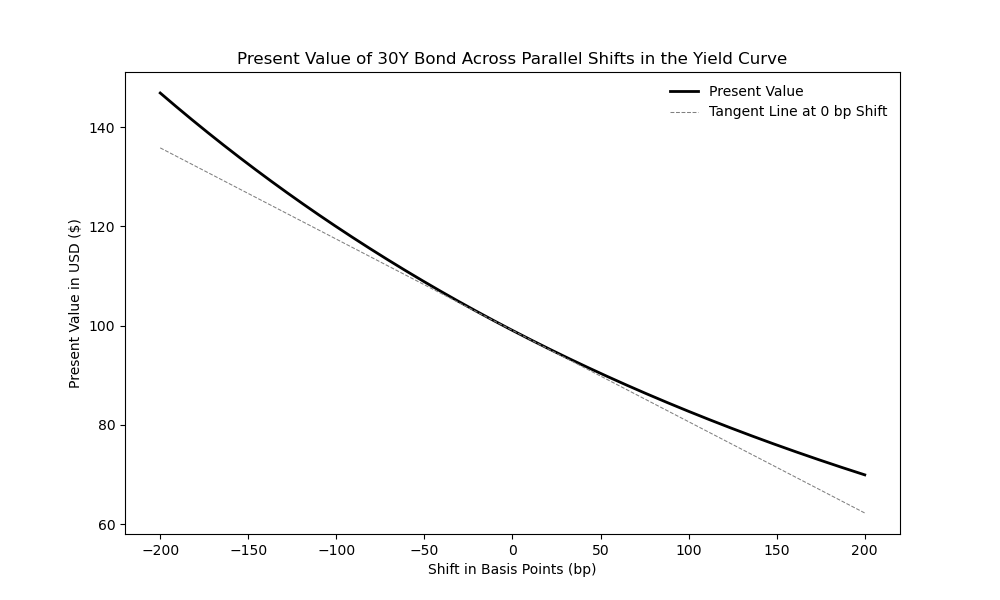
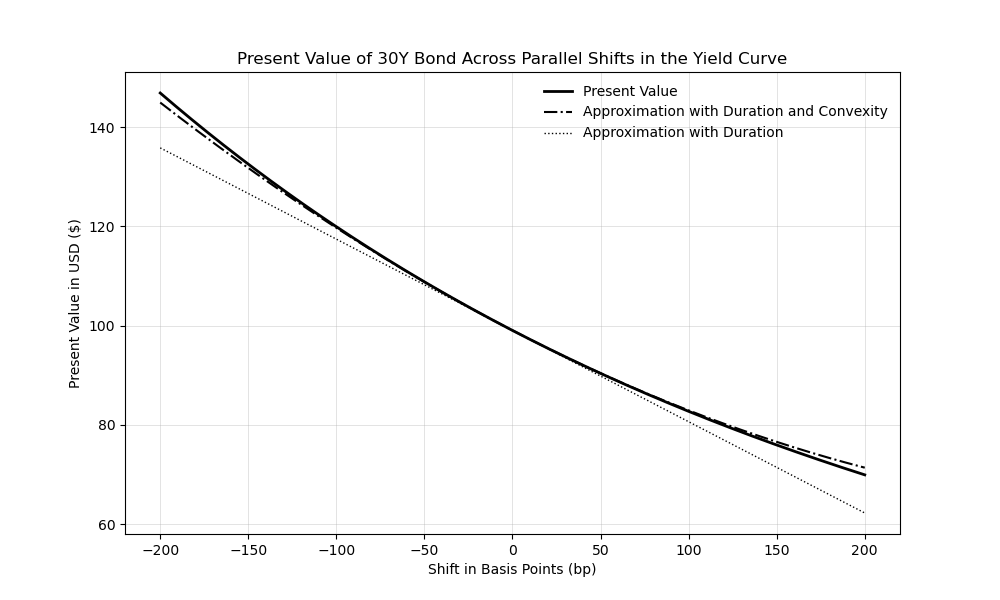
Included convexity calculation for the yield curve object, included both duration and duration+convexity approximations in the yield curve plot_price_curve method. Used bisect.right_insort() for KetRateCollection + KeyRate rather than searching and then performing manual insertion.

diff --git a/fixedIncome/curves/yield_curve.py b/fixedIncome/curves/yield_curve.py
@@ -214,23 +214,49 @@ class YieldCurve(object):
         """
         return lambda date_obj: bump_amount
 
-
-    def calculate_pv_deriv(self, bond: Bond) -> float:
+    #----------------------------------------------------------------------
+    # Duration and convexity with respect to parallel shifts of yield curve
+    def calculate_pv_deriv(self, bond: Bond, offset: float = 0.0) -> float:
         """
         Calculates the DV01 of the provided bond under parallel shifts of the yield curve.
+        offset allows the user to specify a shift around which the derivative will be computed.
+
 
         Formula is
-            deriv = (PV(+half basis point) - PV(-half basis Point))/(0.005 - -0.005)
+            deriv = (PV(offset+half basis point) - PV(offset-half basis Point))/(0.005 - -0.005)
         """
-        half_bp_adjustment = self.parallel_bump(bump_amount=0.005)  # unit is in %, so 0.005 = half a basis point
+        half_bp_adjustment = self.parallel_bump(bump_amount=offset + 0.005)  # unit is in %, so 0.005 = half a basis point
         pv_plus_half_bp = self.calculate_present_value(bond, adjustment_fxcn=half_bp_adjustment)
 
-        negative_half_bp_adjustment = self.parallel_bump(bump_amount=-0.005)
+        negative_half_bp_adjustment = self.parallel_bump(bump_amount=offset - 0.005)
         pv_minus_half_bp = self.calculate_present_value(bond, adjustment_fxcn=negative_half_bp_adjustment)
 
         deriv = (pv_plus_half_bp - pv_minus_half_bp)/0.01  # 0.01 = 0.005 - -0.005
 
         return deriv
+
+    def duration(self, bond: Bond) -> float:
+        """
+        Calculates the duration of the bond, as
+        -1/P * dP/dy where P is the bond price.
+        """
+        derivative = self.calculate_pv_deriv(bond)
+        present_value = self.calculate_present_value(bond)  # should I calculate present value or can I just use price?
+        return -derivative/present_value
+
+    def convexity(self, bond: Bond) -> float:
+        """
+        calculate the convexity of a bond, defined as
+        C: = 1/P * d^2 P/d^2y
+        """
+
+        derivative_positive_bump = self.calculate_pv_deriv(bond, offset=0.005)
+        derivative_negative_bump = self.calculate_pv_deriv(bond, offset=-0.005)
+        second_deriv = (derivative_positive_bump - derivative_negative_bump) / 0.01
+
+        return second_deriv / self.calculate_present_value(bond)
+
+
 
 
 
@@ -248,7 +274,6 @@ class YieldCurve(object):
         )
 
         orig_y_vals = [self.interpolate(date_obj) for date_obj in interpolation_timestamps.date]
-        bumped_y_vals = [self.interpolate(date_obj, adjustment) for date_obj in interpolation_timestamps.date]
 
         plot_series = pd.Series(orig_y_vals, index=interpolation_timestamps.date)
         title_string = f"{self.interpolation_space} Curve Interpolated " \
@@ -258,6 +283,7 @@ class YieldCurve(object):
         plot_series.plot(title=title_string, ylabel=self.interpolation_space, color='black', linewidth=2)
 
         if adjustment is not None:
+            bumped_y_vals = [self.interpolate(date_obj, adjustment) for date_obj in interpolation_timestamps.date]
             plot_bumped_series = pd.Series(bumped_y_vals, index=interpolation_timestamps.date)
             plot_bumped_series.plot(linestyle='--', color='black')
 
@@ -272,6 +298,7 @@ class YieldCurve(object):
 
         deriv = self.calculate_pv_deriv(bond)
         bond_pv = self.calculate_present_value(bond)
+        bond_convexty = self.convexity(bond)
 
         parallel_shifts = np.arange(start=lower_shift, stop=upper_shift+shift_increment, step=shift_increment)
 
@@ -280,13 +307,18 @@ class YieldCurve(object):
 
         tangent_line = [deriv * shift + bond_pv for shift in parallel_shifts]
 
+        quad_approx = [bond_pv + deriv * shift + shift**2 * bond_pv*bond_convexty/2 for shift in parallel_shifts]
+
         plt.figure(figsize=(10, 6))
         plt.plot(parallel_shifts*100, pv_vals, color="black", linewidth=2)
-        plt.plot(parallel_shifts*100, tangent_line, color="grey", linestyle='--', linewidth=0.75)
+        plt.plot(parallel_shifts*100, quad_approx, color="black", linestyle="-.", linewidth=1.5)
+        plt.plot(parallel_shifts*100, tangent_line, color="black", linestyle=':', linewidth=1)
         plt.xlabel("Shift in Basis Points (bp)")
         plt.ylabel(f"Present Value in USD ($)")
         plt.title(f'Present Value of {bond.tenor} Bond Across Parallel Shifts in the Yield Curve')
-        plt.legend(['Present Value', 'Tangent Line at 0 bp Shift'], frameon=False)
+        plt.legend(['Present Value', 'Approximation with Duration and Convexity', 'Approximation with Duration'],
+                   frameon=False)
+        plt.grid(True, alpha=0.5, linewidth=0.5)
         plt.show()
 
 

diff --git a/main.py b/main.py
@@ -4,14 +4,14 @@ from fixedIncome.curves.key_rate import *
 from fixedIncome.utils.day_count_calculator import *
 
 
-def main() -> None:
+def main(bond_collection, curve_factory) -> None:
 
     #---------------------------------------------------------------------
     # Yield Curve
 
-    yield_curve = curve_factory_obj.construct_yield_curve(bond_collection,
-                                                          interpolation_method='cubic',
-                                                          reference_date=purchase_date)
+    yield_curve = curve_factory.construct_yield_curve(bond_collection,
+                                                      interpolation_method='cubic',
+                                                      reference_date=purchase_date)
     # Trial Key Rate to test bumping Yield Curve
     key_rate_obj = KeyRate('act/act',
                            key_rate_date=date(2030, 2, 28),
@@ -26,10 +26,14 @@ def main() -> None:
 
     # DV01 calculations
 
-    pv_derivs = [yield_curve.calculate_pv_deriv(bond) for bond in bond_collection]
+    durations = [yield_curve.duration(bond) for bond in bond_collection]
 
-    print("Derivative values are...")
-    print(pv_derivs)
+    print("Duration values are...")
+    print(durations)
+
+    convexities = [yield_curve.convexity(bond) for bond in bond_collection]
+    print("Convexities are...")
+    print(convexities)
 
 
 
@@ -113,8 +117,8 @@ if __name__ == '__main__':
                      purchase_date=purchase_date,
                      maturity_date=date(2053, 2, 15))
 
-    bond_collection = [
+    bond_list = [
         four_wk, one_yr, two_yr, three_yr, five_yr, seven_yr, ten_yr, twenty_yr, thirty_yr
     ]
 
-    main()
+    main(bond_list, curve_factory_obj)

diff --git a/fixedIncome/curves/key_rate.py b/fixedIncome/curves/key_rate.py
@@ -288,9 +288,7 @@ class KeyRateCollection:
         Returns a reference to self.
         """
 
-        kr_insertion_index = bisect.bisect_right(self.key_rates, other_key_rate)
-
-        self.key_rates.insert(kr_insertion_index, other_key_rate)
+        bisect.insort_right(self.key_rates, other_key_rate)
 
         self._test_key_rate_dates()
 
